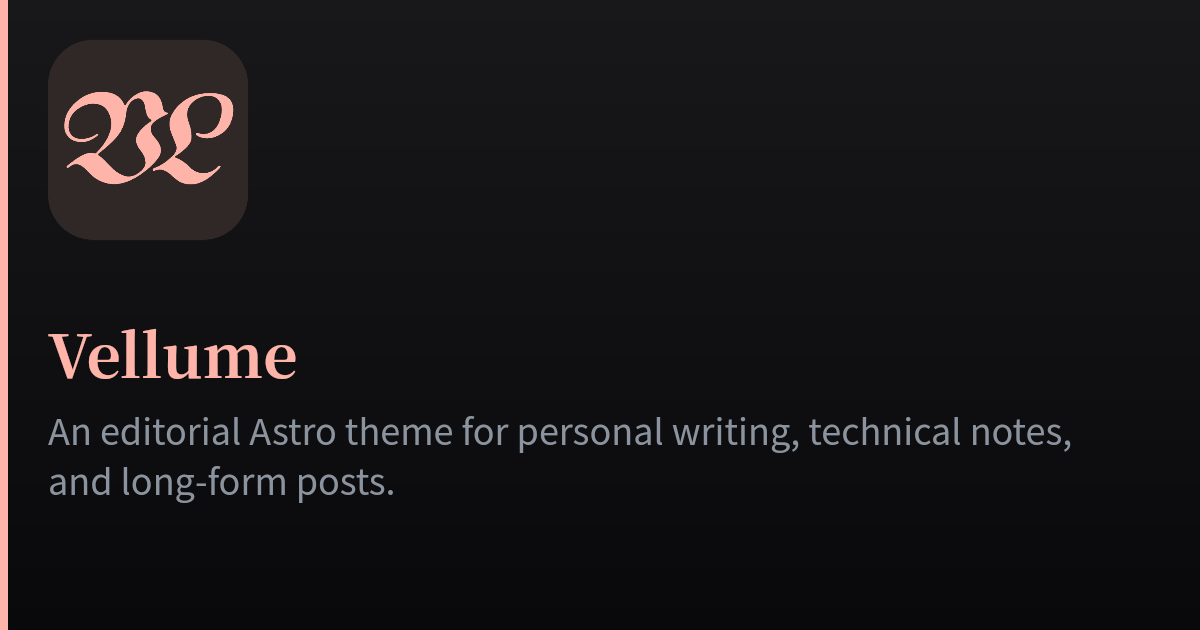
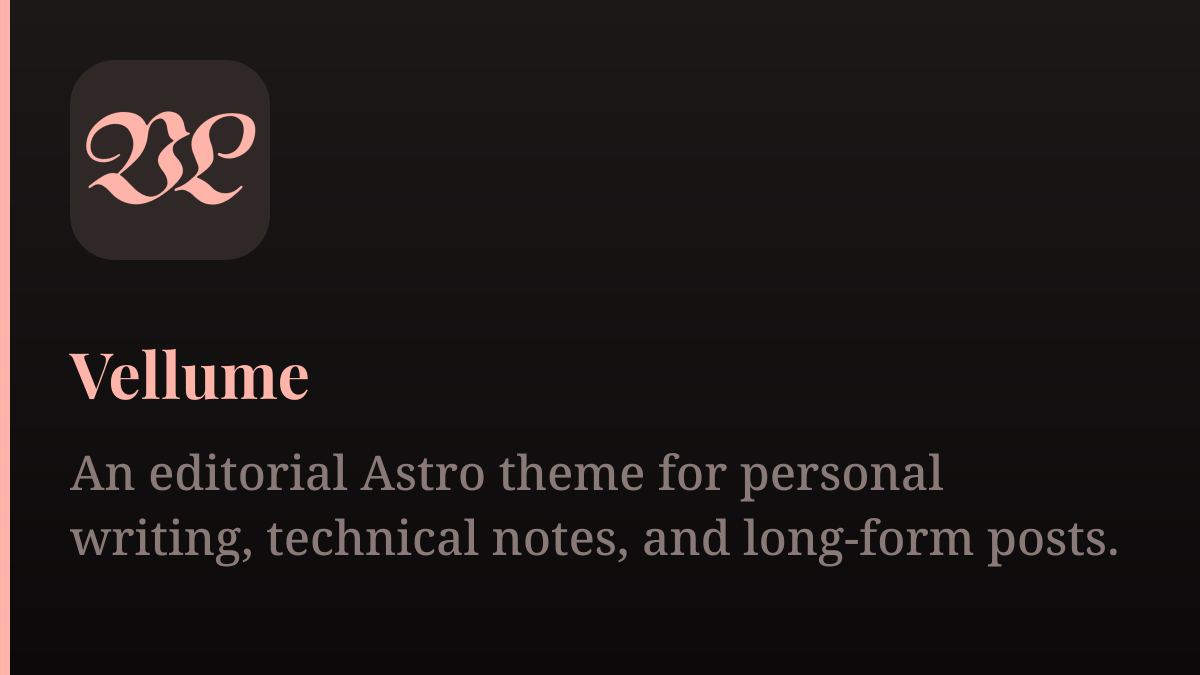
chore: replace social preview with custom artwork

Changed region(s): [[0.0308, 0.6635, 0.925, 0.8444], [0.0308, 0.0905, 0.2467, 0.3921], [0.0308, 0.5127, 0.2775, 0.6032]]

diff --git a/README.md b/README.md
@@ -65,5 +65,6 @@ pnpm build
 
 ## 仓库展示资源
 
-- GitHub 社交预览图已生成并保存在 `./.github/social-preview.png`
-- 如果需要替换，可重新运行 `pnpm build`，然后用新的 `dist/assets/og/index.png` 覆盖它
+- GitHub 社交预览图源文件保存在 `./.github/social-preview.svg`
+- 上传到 GitHub 时建议使用导出的 `./.github/social-preview.png`
+- 如果需要替换，可直接更新 SVG 后重新导出 PNG
